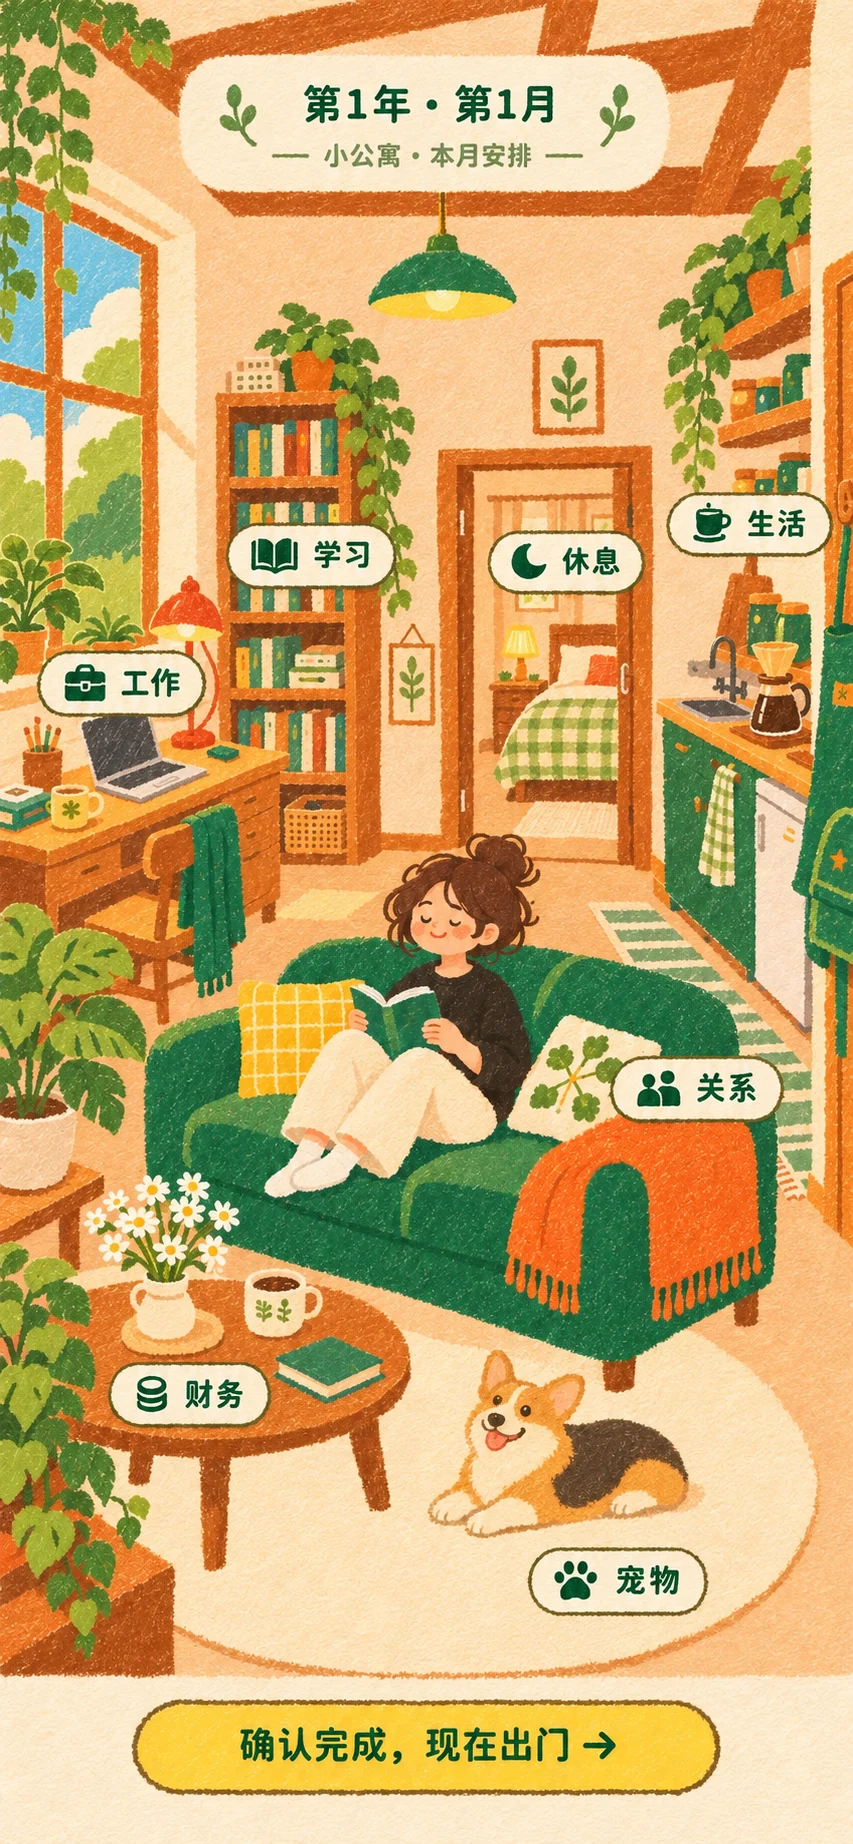
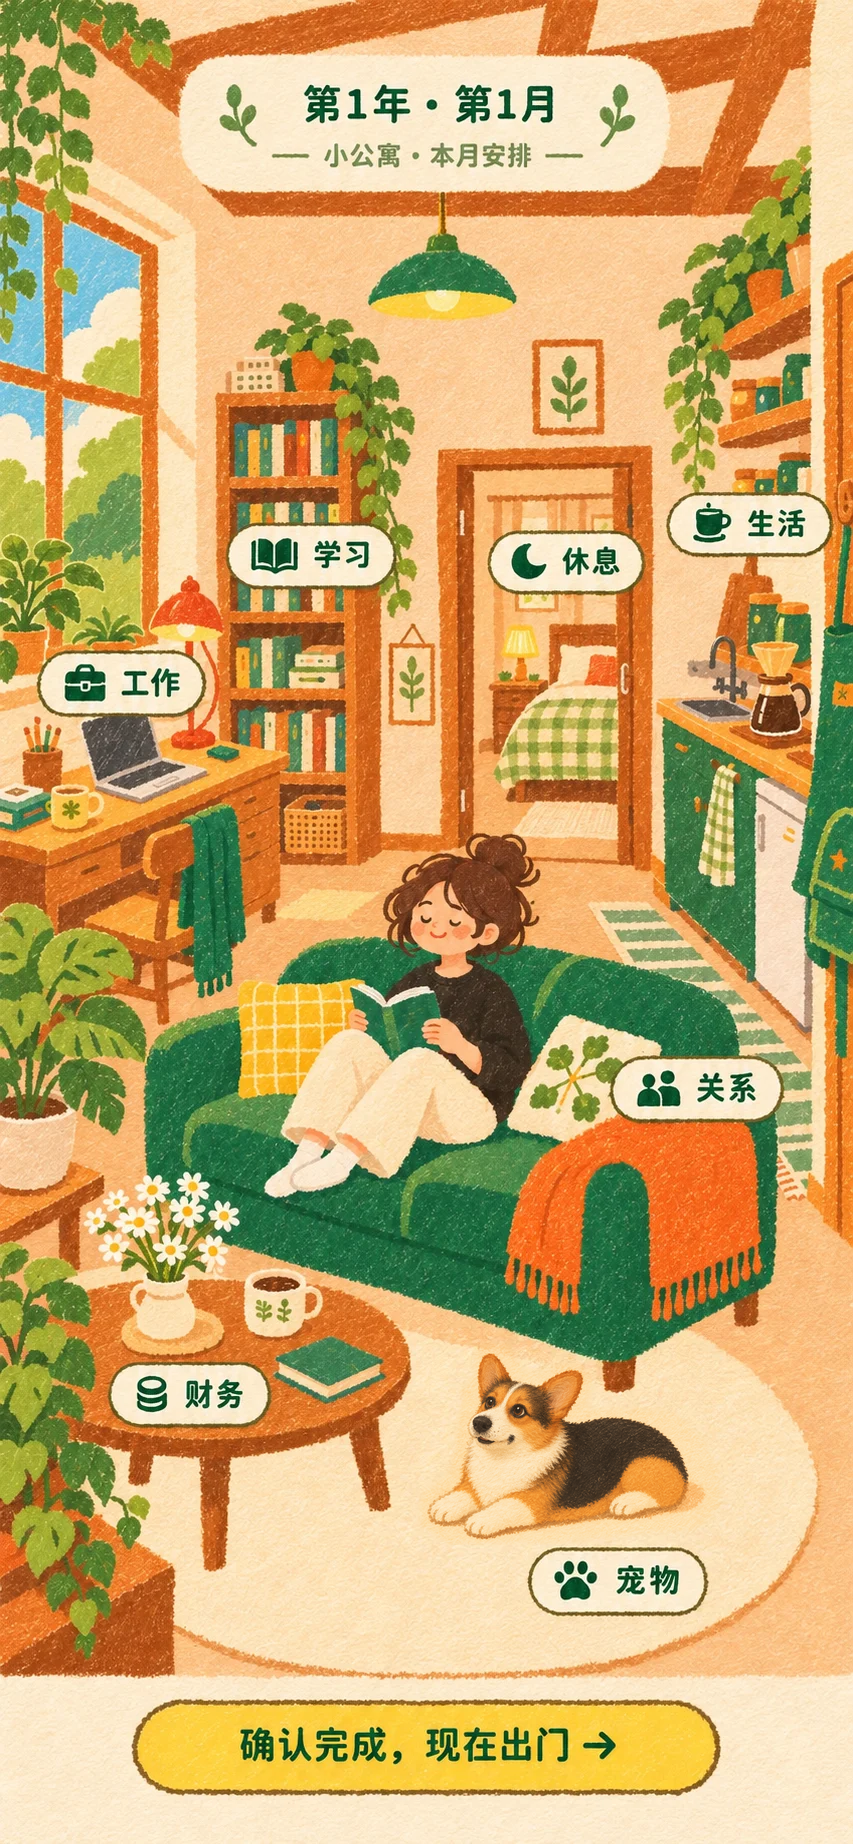
Use approved Bobo illustration in the apartment

Changed region(s): [[0.4877, 0.711, 0.823, 0.8346]]

diff --git a/sw.js b/sw.js
@@ -1,4 +1,4 @@
-const CACHE='wealth-life-town-20261122-housing-hand1';
+const CACHE='wealth-life-town-20261122-bobo1';
 const ASSETS=["./assets/finance/insurance-illustrations.webp","./assets/career-events-20261116/reserve-reference-header.webp","./assets/career-events-20261116/reserve-option-a.webp","./assets/career-events-20261116/reserve-option-b.webp","./assets/career-events-20261116/bakery-reference-header.webp","./assets/career-events-20261116/bakery-option-a.webp","./assets/career-events-20261116/bakery-option-b.webp","./assets/career-events-20261116/bakery-option-c.webp","./assets/career-events-20261116/partner-bakery-result.webp","./assets/career-events-20261116/bakery-result-pastry.webp","./assets/career-events-20261116/order-a-clock.webp","./assets/career-events-20261116/order-a-badge.webp","./assets/career-events-20261116/order-paper-strip.webp","./assets/career-events-20261116/order-yellow-wash.webp","./assets/career-events-20261116/order-reference-header.webp","./assets/career-events-20261116/order-option-b.webp","./assets/career-events-20261116/order-option-c.webp","./assets/career-events-20261116/machine-option-a.webp","./assets/career-events-20261116/machine-option-b.webp","./assets/career-events-20261116/partner-reserve.webp?v=20261119-painted2","./assets/career-events-20261116/partner-machine.webp?v=20261119-handpainted3","./assets/career-events-20261116/partner-beans.webp?v=20261119-painted2","./assets/career-events-20261116/partner-order.webp?v=20261119-reference6","./assets/career-events-20261116/partner-bakery.webp?v=20261119-painted2","./owner-housing.js?v=2","./etf-market-data.js?v=1", "./etf-market.js?v=2", "./etf-pages.js?v=20261122-hide-rule-tips1", "./etf-pages.css?v=1", "./assets/etf/detail.webp", "./assets/etf/market.webp", "./assets/etf/settings.webp","./assets/bank-loans/receipt.webp", "./assets/bank-loans/repay.webp", "./assets/bank-loans/shortfall.webp","./home-insurance.css?v=20261122-insurance-art2", "./home-insurance.js?v=20261122-hide-rule-tips1", "./assets/home-insurance/branch.webp", "./assets/home-insurance/claim-basic.webp", "./assets/home-insurance/claim-full.webp", "./assets/home-insurance/confirm.webp", "./assets/home-insurance/electrical.webp", "./assets/home-insurance/hail.webp", "./assets/home-insurance/kitchen.webp", "./assets/home-insurance/menu.webp", "./assets/home-insurance/plans.webp", "./assets/home-insurance/policy.webp", "./assets/home-insurance/renter.webp", "./assets/home-insurance/wind.webp","./relationship-avatars.js?v=20261113-avatars1", "./assets/relationships/avatars/manager-female-01.webp", "./assets/relationships/avatars/manager-female-02.webp", "./assets/relationships/avatars/manager-female-03.webp", "./assets/relationships/avatars/manager-female-04.webp", "./assets/relationships/avatars/manager-female-05.webp", "./assets/relationships/avatars/manager-female-06.webp", "./assets/relationships/avatars/manager-male-01.webp", "./assets/relationships/avatars/manager-male-02.webp", "./assets/relationships/avatars/manager-male-03.webp", "./assets/relationships/avatars/manager-male-04.webp", "./assets/relationships/avatars/manager-male-05.webp", "./assets/relationships/avatars/manager-male-06.webp", "./assets/relationships/avatars/coworker-female-01.webp", "./assets/relationships/avatars/coworker-female-02.webp", "./assets/relationships/avatars/coworker-female-03.webp", "./assets/relationships/avatars/coworker-female-04.webp", "./assets/relationships/avatars/coworker-female-05.webp", "./assets/relationships/avatars/coworker-female-06.webp", "./assets/relationships/avatars/coworker-male-01.webp", "./assets/relationships/avatars/coworker-male-02.webp", "./assets/relationships/avatars/coworker-male-03.webp", "./assets/relationships/avatars/coworker-male-04.webp", "./assets/relationships/avatars/coworker-male-05.webp", "./assets/relationships/avatars/coworker-male-06.webp", "./assets/relationships/avatars/classmate-female-01.webp", "./assets/relationships/avatars/classmate-female-02.webp", "./assets/relationships/avatars/classmate-female-03.webp", "./assets/relationships/avatars/classmate-female-04.webp", "./assets/relationships/avatars/classmate-female-05.webp", "./assets/relationships/avatars/classmate-female-06.webp", "./assets/relationships/avatars/classmate-male-01.webp", "./assets/relationships/avatars/classmate-male-02.webp", "./assets/relationships/avatars/classmate-male-03.webp", "./assets/relationships/avatars/classmate-male-04.webp", "./assets/relationships/avatars/classmate-male-05.webp", "./assets/relationships/avatars/classmate-male-06.webp", "./assets/relationships/avatars/petfriend-female-01.webp", "./assets/relationships/avatars/petfriend-female-02.webp", "./assets/relationships/avatars/petfriend-female-03.webp", "./assets/relationships/avatars/petfriend-female-04.webp", "./assets/relationships/avatars/petfriend-female-05.webp", "./assets/relationships/avatars/petfriend-female-06.webp", "./assets/relationships/avatars/petfriend-male-01.webp", "./assets/relationships/avatars/petfriend-male-02.webp", "./assets/relationships/avatars/petfriend-male-03.webp", "./assets/relationships/avatars/petfriend-male-04.webp", "./assets/relationships/avatars/petfriend-male-05.webp", "./assets/relationships/avatars/petfriend-male-06.webp", "./assets/relationships/avatars/landlord-female-01.webp", "./assets/relationships/avatars/landlord-female-02.webp", "./assets/relationships/avatars/landlord-female-03.webp", "./assets/relationships/avatars/landlord-female-04.webp", "./assets/relationships/avatars/landlord-female-05.webp", "./assets/relationships/avatars/landlord-female-06.webp", "./assets/relationships/avatars/landlord-male-01.webp", "./assets/relationships/avatars/landlord-male-02.webp", "./assets/relationships/avatars/landlord-male-03.webp", "./assets/relationships/avatars/landlord-male-04.webp", "./assets/relationships/avatars/landlord-male-05.webp", "./assets/relationships/avatars/landlord-male-06.webp"].concat(["./relationship-pages.css?v=20261122-interaction2","./relationship-rules.js?v=20261113-review1","./relationship-ui.js?v=20261122-interaction2","./relationship-life-cards.js?v=20261115-career1", "./relationship-card-data.js?v=20261115-career1", "./relationship-life-ui.js?v=20261121-picturebook1","./assets/relationships/contact-list-20261110.webp","./assets/relationships/contact-detail-20261110.webp","./assets/relationships/manager-experience-20261110.webp","./assets/fonts/MaShanZheng-Regular.ttf","./assets/pets/vet-reminder-dog-20261107.webp","./assets/pets/vet-reminder-cat-20261107.webp","./assets/pets/vet-reminder-tortoise-20261107.webp","./assets/pets/vet-reminder-chameleon-20261107.webp","./assets/pets/vet-reminder-gecko-20261107.webp","./assets/pets/vet-reminder-spider-20261107.webp","./assets/pets/vet-reminder-crocodile-20261107.webp","./pet-insurance.js?v=20261107-petpremium55","./assets/pets/insurance-dog-20261106.webp","./assets/pets/insurance-cat-20261106.webp","./assets/pets/insurance-tortoise-20261106.webp","./assets/pets/insurance-chameleon-20261106.webp","./assets/pets/insurance-gecko-20261106.webp","./assets/pets/insurance-spider-20261106.webp","./assets/pets/insurance-crocodile-20261106.webp","./assets/pets/annual-dog-20261106.webp","./assets/pets/annual-cat-20261106.webp","./assets/pets/annual-tortoise-20261106.webp","./assets/pets/annual-chameleon-20261106.webp","./assets/pets/annual-gecko-20261106.webp","./assets/pets/annual-spider-20261106.webp","./assets/pets/annual-crocodile-20261106.webp","./assets/pets/monthly-fee-20261106.webp","./pet-basic-fees.js?v=20261106-petaudit1","./assets/pets/detail-actions-20261106.webp","./assets/pets/insurance-entry-20261106.webp","./pet-event-cards.js?v=20261107-spider120", "./assets/pets/events/companion-dog-20261105.webp", "./assets/pets/events/dog-unwell-20261106.webp", "./assets/pets/events/dog-social-20261106.webp", "./assets/pets/events/dog-surprise-20261106.webp", "./assets/pets/events/dog-accident-20261106.webp", "./assets/pets/events/companion-cat-20261105.webp", "./assets/pets/events/cat-unwell-20261106.webp", "./assets/pets/events/cat-social-20261106.webp", "./assets/pets/events/cat-surprise-20261106.webp", "./assets/pets/events/cat-accident-20261106.webp", "./assets/pets/events/companion-crocodile-20261105.webp", "./assets/pets/events/crocodile-unwell-20261106.webp", "./assets/pets/events/crocodile-social-20261106.webp", "./assets/pets/events/crocodile-surprise-20261106.webp", "./assets/pets/events/crocodile-accident-20261106.webp", "./assets/pets/events/companion-gecko-20261105.webp", "./assets/pets/events/gecko-unwell-20261106.webp", "./assets/pets/events/gecko-social-20261106.webp", "./assets/pets/events/gecko-surprise-20261106.webp", "./assets/pets/events/gecko-accident-20261106.webp", "./assets/pets/events/companion-spider-20261105.webp", "./assets/pets/events/spider-unwell-20261106.webp", "./assets/pets/events/spider-social-20261106.webp", "./assets/pets/events/spider-surprise-20261106.webp", "./assets/pets/events/spider-accident-20261106.webp", "./assets/pets/events/companion-tortoise-20261105.webp", "./assets/pets/events/tortoise-unwell-20261106.webp", "./assets/pets/events/tortoise-social-20261106.webp", "./assets/pets/events/tortoise-surprise-20261106.webp", "./assets/pets/events/tortoise-accident-20261106.webp", "./assets/pets/events/companion-chameleon-20261105.webp", "./assets/pets/events/chameleon-unwell-20261106.webp", "./assets/pets/events/chameleon-social-20261106.webp", "./assets/pets/events/chameleon-surprise-20261106.webp", "./assets/pets/events/chameleon-accident-20261106.webp"].concat(["./pet-events.js?v=20261120-map-life2", "./pet-events-ui.js?v=20261122-stepping-stones1", "./pet-events.css?v=20261106-pet35", "./assets/pets/events/companion-spider-20261105.webp", "./assets/pets/events/companion-gecko-20261105.webp", "./assets/pets/events/companion-tortoise-20261105.webp", "./assets/pets/events/mishap-20261105.webp", "./assets/pets/events/companion-crocodile-20261105.webp", "./assets/pets/events/companion-cat-20261105.webp", "./assets/pets/events/unwell-20261105.webp", "./assets/pets/events/companion-chameleon-20261105.webp", "./assets/pets/events/social-20261105.webp", "./assets/pets/events/injury-20261105.webp", "./assets/pets/events/companion-dog-20261105.webp"].concat(["./assets/pets/adoption-card-20261105.webp","./assets/pets/adoption-paper-20261105.webp","./assets/home/pet-selection-no-prices-20261105.webp", "./pet-pages.js?v=20261122-hide-rule-tips1", "./pet-pages.css?v=20261113-review1", "./assets/pets/adoption-dog-20261104.webp", "./assets/pets/clean-cat-20261104.webp", "./assets/pets/clean-chameleon-20261104.webp", "./assets/pets/clean-crocodile-20261104.webp", "./assets/pets/clean-dog-20261104.webp", "./assets/pets/clean-gecko-20261104.webp", "./assets/pets/clean-spider-20261104.webp", "./assets/pets/clean-tortoise-20261104.webp", "./assets/pets/detail-20261104.webp", "./assets/pets/overview-20261104.webp", "./assets/pets/success-cat-20261104.webp", "./assets/pets/success-chameleon-20261104.webp", "./assets/pets/success-crocodile-20261104.webp", "./assets/pets/success-dog-20261104.webp", "./assets/pets/success-gecko-20261104.webp", "./assets/pets/success-spider-20261104.webp", "./assets/pets/success-tortoise-20261104.webp"].concat(["./pet-adoption-entry.js?v=20261107-petdeadline1","./pet-adoption-entry.css?v=20261105-petcard2","./assets/home/pet-selection-seven-20261104.webp","./assets/home/family-corgi-20261104.webp","./assets/home/shared-corgi-20261104.webp","./assets/home/studio-corgi-20261104.webp","./assets/home/apartment-corgi-20261104.webp","./apartment-events.js?v=20261104-apartment1", "./assets/apartment/back-20261104.webp", "./assets/apartment/bricks-20261104.webp", "./assets/apartment/clean-20261104.webp", "./assets/apartment/company-20261104.webp", "./assets/apartment/display-20261104.webp", "./assets/apartment/exercise-20261104.webp", "./assets/apartment/flowers-20261104.webp", "./assets/apartment/knock-20261104.webp", "./assets/apartment/lastbus-20261104.webp", "./assets/apartment/lighting-20261104.webp", "./assets/apartment/pajamas-20261104.webp", "./assets/apartment/party-20261104.webp", "./assets/apartment/sing-20261104.webp", "./assets/apartment/spill-20261104.webp"].concat(["./studio-events.js?v=20261103-studio1", "./assets/studio/back-20261103.webp", "./assets/studio/call-20261103.webp", "./assets/studio/cinema-20261103.webp", "./assets/studio/cook-20261103.webp", "./assets/studio/corner-20261103.webp", "./assets/studio/fridge-20261103.webp", "./assets/studio/gaming-20261103.webp", "./assets/studio/keepsake-20261103.webp", "./assets/studio/keys-20261103.webp", "./assets/studio/morning-20261103.webp", "./assets/studio/noise-20261103.webp", "./assets/studio/rain-20261103.webp", "./assets/studio/tea-20261103.webp"].concat(["./assets/shared/back-20261102.webp","./assets/shared/toolbox-shop-20261102.webp","./assets/shared/toolbox-neighbor-20261102.webp","./assets/shared/chat-night-20261102.webp","./assets/shared/meal-love-20261102.webp","./assets/shared/ride-b4-20261102.webp","./housing-time-debt.js?v=20261104-apartment1","./shared-events.js?v=20261102-toolbox1", "./assets/shared/chat-20261102.webp", "./assets/shared/clean-20261102.webp", "./assets/shared/cook-20261102.webp", "./assets/shared/games-20261102.webp", "./assets/shared/guest-20261102.webp", "./assets/shared/leak-20261102.webp", "./assets/shared/meal-20261102.webp", "./assets/shared/movie-20261102.webp", "./assets/shared/noise-20261102.webp", "./assets/shared/quilt-20261102.webp", "./assets/shared/ride-20261102.webp", "./assets/shared/toolbox-20261102.webp"].concat(["./family-events.js?v=20261102-family2","./family-home.js?v=20261115-career1","./family-home.css?v=20261104-apartment1","./assets/family/back-20261102.webp","./assets/family/background-20261102.webp","./assets/family/blessing-20261102.webp","./assets/family/care-20261102.webp","./assets/family/dinner-20261102.webp","./assets/family/disagreement-20261102.webp","./assets/family/flowers-20261102.webp","./assets/family/fridge-20261102.webp","./assets/family/lamplight-20261102.webp","./assets/family/love-20261102.webp","./assets/family/memories-20261102.webp","./assets/family/movie-20261102.webp","./assets/family/portrait-20261102.webp","./assets/family/teacher-20261102.webp","./housing-bills.js?v=20261119-sale1", "./assets/pages/studio-reservation-1400-20261101.webp", "./assets/pages/studio-occupied-1400-20261101.webp", "./assets/pages/shared-reservation-900-20261101.webp", "./assets/pages/shared-occupied-900-20261101.webp", "./assets/pages/one-bedroom-reservation-1600-20261101.webp", "./assets/pages/one-bedroom-occupied-1600-20261101.webp", "./assets/pages/family-occupied-500-20261101.webp", "./assets/pages/life-monthly-bill-20261101.webp","./career-selection.js?v=20261101", "./career-selection.css?v=20261101", "./painted-pages.js?v=20261122-housing-titles2", "./painted-pages.css?v=20261122-housing-hand1", "./assets/career/barista-character-20261101.webp", "./assets/pages/rest-20261101.webp", "./assets/pages/life-20261101.webp", "./assets/pages/housing-20261101.webp", "./assets/pages/family-20261101.webp","./room.js?v=20261122-hide-rule-tips1","./room.css?v=20261117-room-corgi1","./assets/home/room-phone-20261101.webp","./release-info.js?v=28.3-internal1","./financial-crisis.js?v=20261122-finance-saves1","./four-state.js?v=28.3-internal1","./rest-state.js?v=20261112-direct-rest1","./coffee-salary.js?v=20261119-equity1","./housing-lease.js?v=20261104-housingsave1","./pet-health.js?v=20261107-petdeadline1","./pet-care.js?v=20261113-review1","./necessary-bills.js?v=20261122-home-notices1","./recovery-ui.js?v=20261122-hide-rule-tips1","./medical-insurance.js?v=20261122-room-navigation2","./recovery-rules.js?v=28.3-internal1","./time-ledger.js?v=28.3-internal1","./time-flow.js?v=20261122-hide-rule-tips1","./assets/career/town.webp","./coffee-career.js?v=20261119-equity1", "./assets/career/barista-staff.webp", "./assets/career/barista-busy.webp", "./assets/career/barista-cut.webp", "./assets/career/barista-tip.webp", "./assets/career/barista-departure.webp", "./assets/career/shift-training.webp", "./assets/career/shift-schedule.webp", "./assets/career/shift-schedule-success.webp", "./assets/career/shift-schedule-failure.webp", "./assets/career/shift-complaint.webp", "./assets/career/shift-complaint-success.webp", "./assets/career/shift-complaint-failure.webp", "./assets/career/shift-acting.webp", "./assets/career/shift-acting-success.webp", "./assets/career/shift-acting-failure.webp", "./assets/career/shift-praise.webp", "./assets/career/intro-confirmed-20261101.webp"] .concat(["./shift-lead.js?v=20261119-equity1","./shift-lead.css?v=28.3-internal1","./paper.css?v=20261122-home-notices1",'./coffee.js?v=20261122-barista-fixes1','./town.js?v=20261122-room-navigation2','./','./index.html','./core.js','./flow.js?v=20261122-hide-rule-tips1','./journey.js?v=20261121-copy1','./batch.js?v=20261122-hide-rule-tips1','./revision.js?v=20261122-stepping-stones1','./annual.js?v=20261122-finance-saves1','./core.js?v=20261122-hide-rule-tips1','./presentation.js?v=20261122-hide-rule-tips1','./presentation.css?v=20261122-room-navigation2','./city.svg','./manifest.webmanifest','./icons/icon-192.png','./icons/icon-512.png']))))))));
 ASSETS.push('./assets/hobbies/events/drawing-invite-painted-20261118.webp');
 ASSETS.push('./fund-pages.css?v=4','./fund-pages.js?v=20261121-copy1','./assets/finance/fund-paper.webp');
